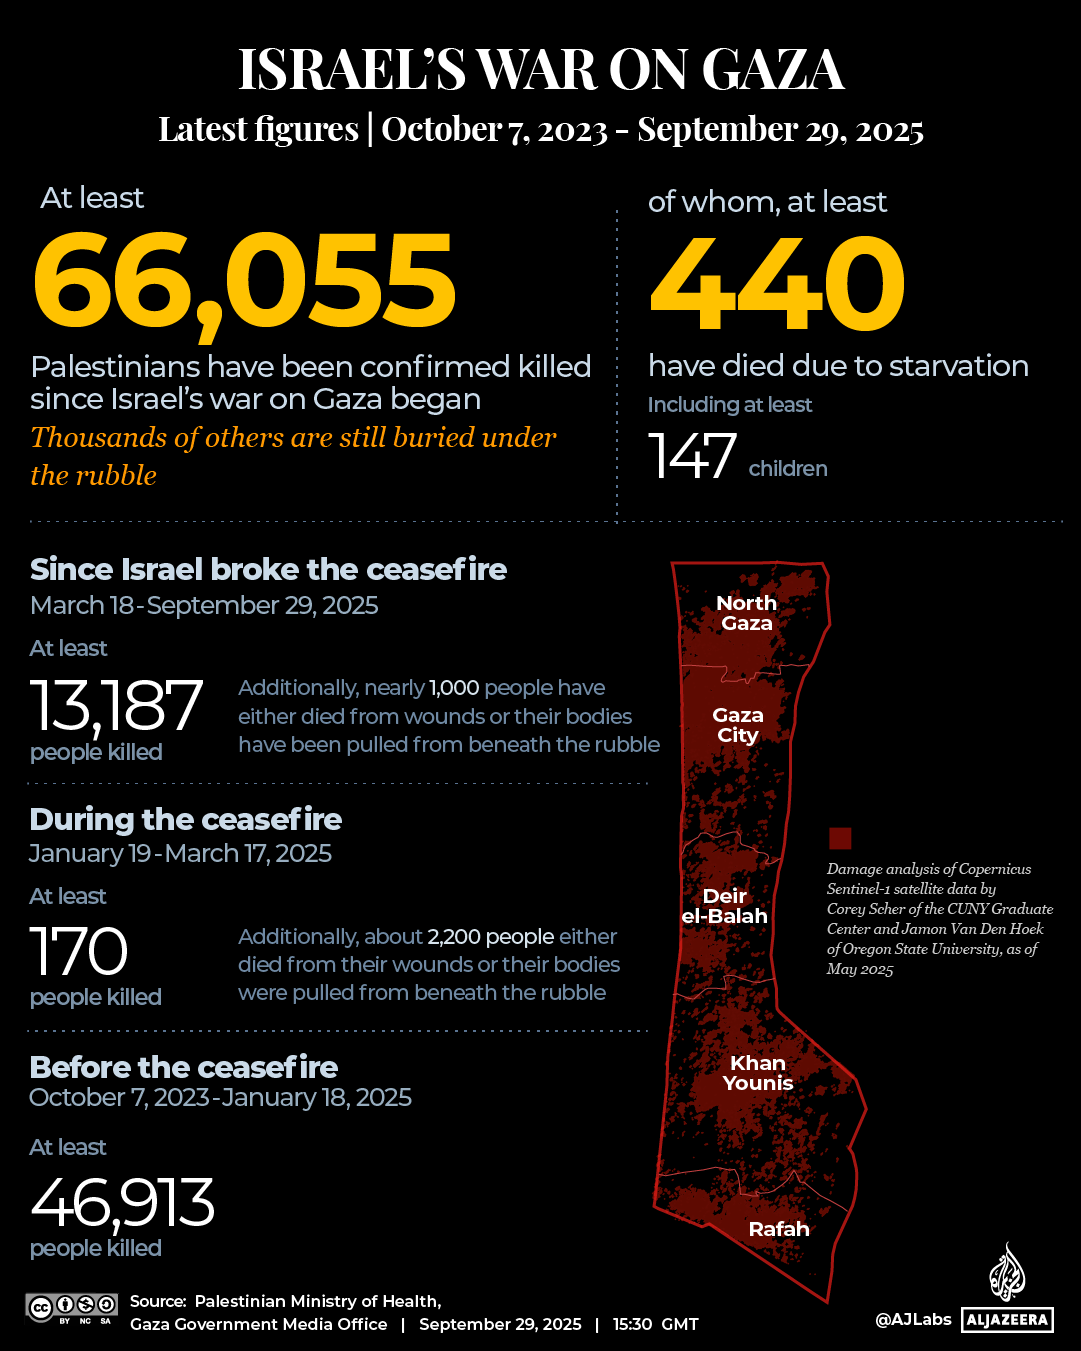
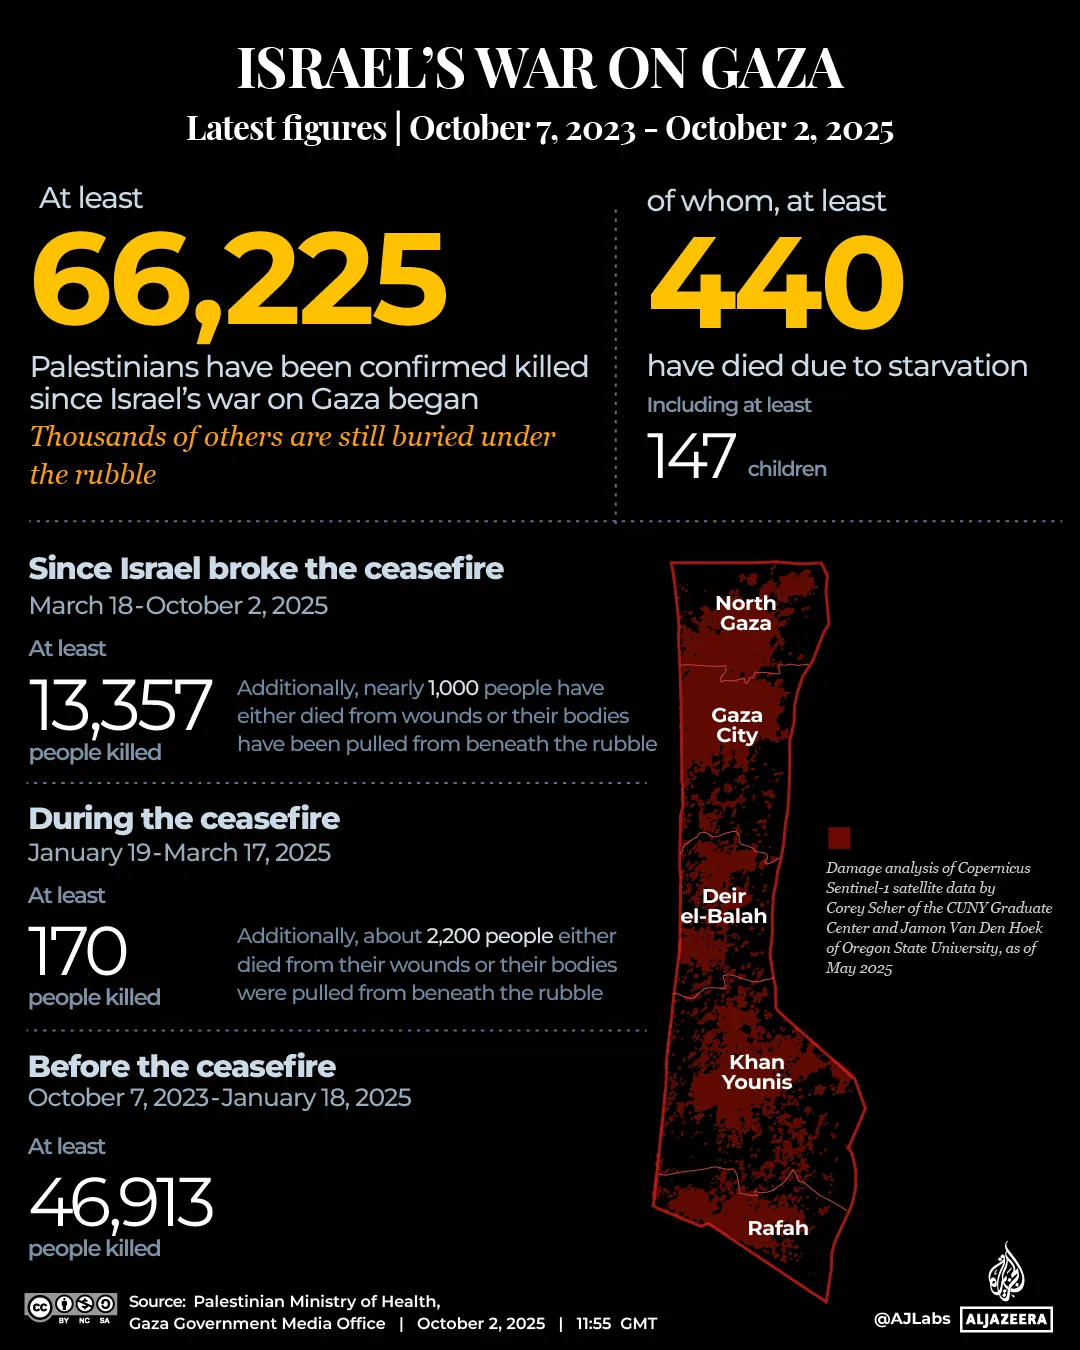
Update infographic and daily video

diff --git a/templates/home.html b/templates/home.html
@@ -126,7 +126,7 @@
     </section>
     <section class="home-center">
         <div class="video-container">
-            <iframe src="https://www.youtube.com/embed/vMRvV4lwVy8?si=IAcg_vEh_v05Oc9P" title="Democracy Now Top US & World Headlines"
+            <iframe src="https://www.youtube.com/embed/7MSc0rUGKS8?si=6D3dZqMfMoBKy8Bf" title="Democracy Now Top US & World Headlines"
                 frameborder="0" allow="accelerometer; autoplay; clipboard-write; encrypted-media;
             gyroscope; picture-in-picture; web-share" referrerpolicy="strict-origin-when-cross-origin"
                 allowfullscreen></iframe>
